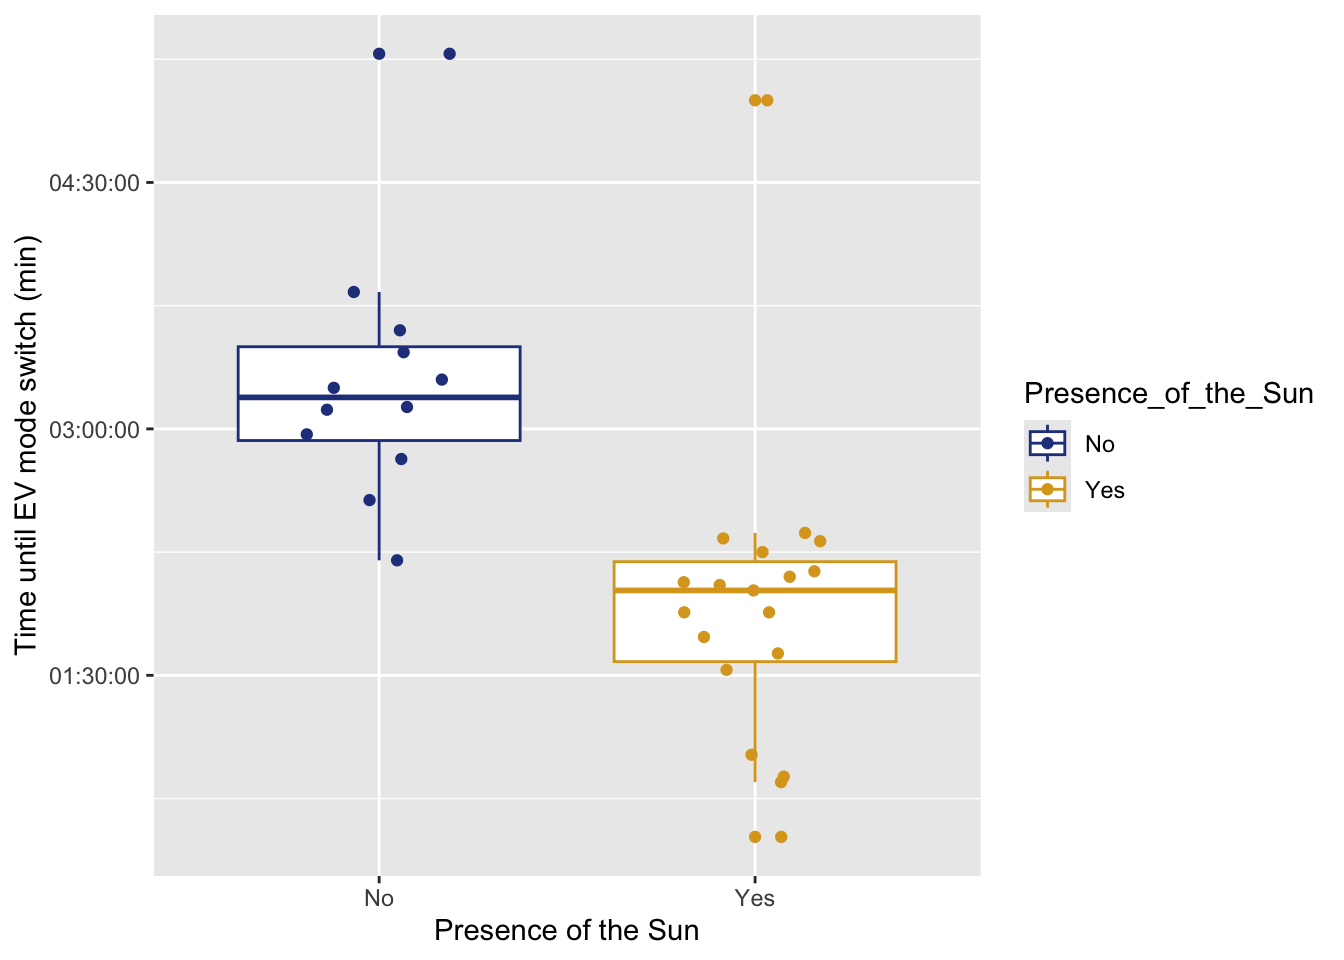
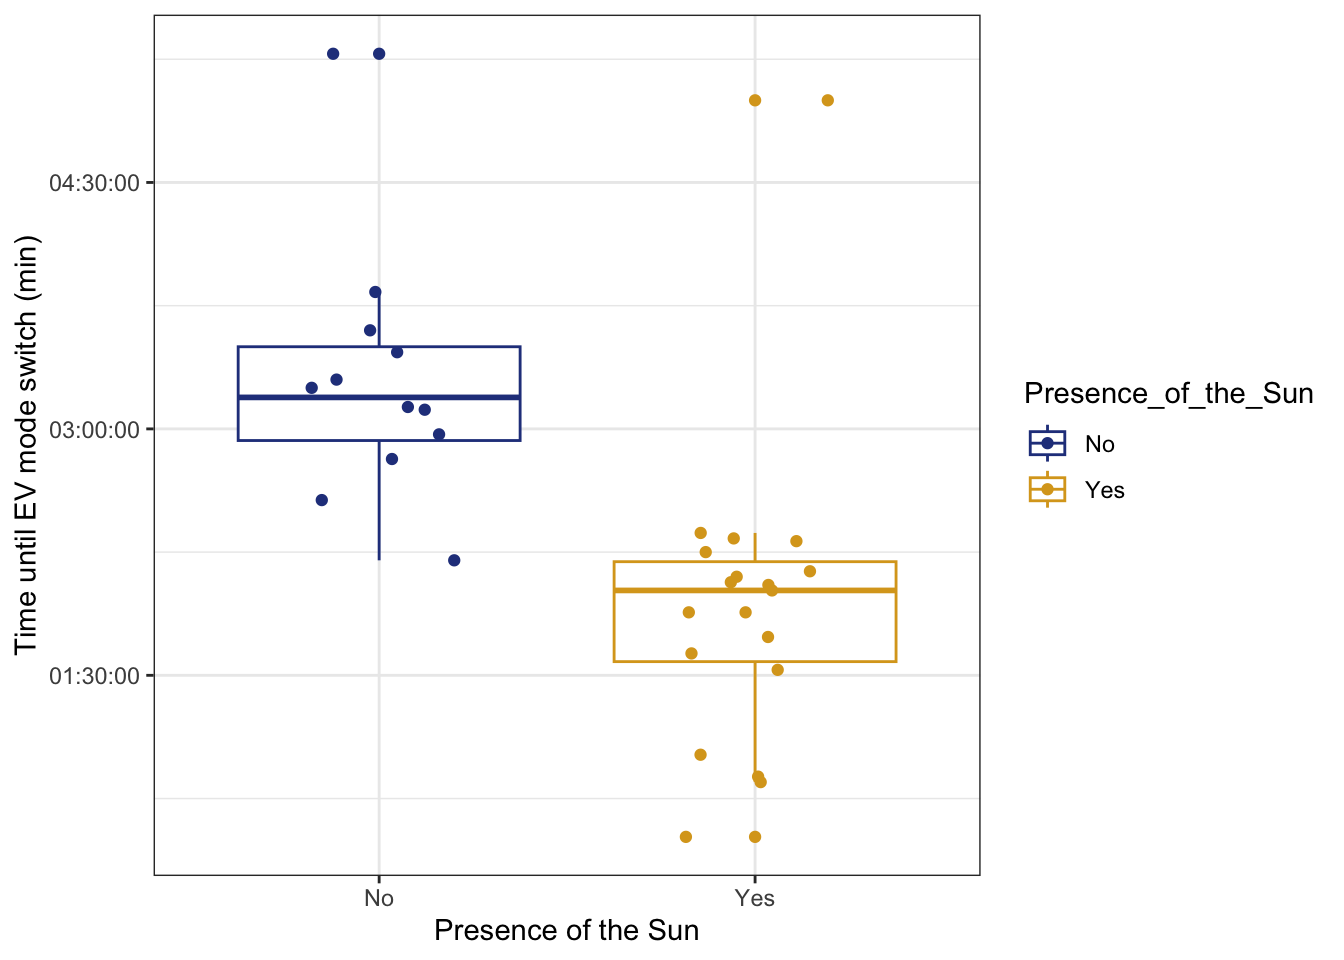
Load in more packages, finish initial drafts of visualizations.

diff --git a/ENVS-193DS_advanced-data-vis.html b/ENVS-193DS_advanced-data-vis.html
@@ -127,14 +127,18 @@ pre > code.sourceCode > span > a:first-child::before { text-decoration: underlin
 <h1>1. Set up</h1>
 <div class="cell">
 <div class="sourceCode cell-code" id="cb1"><pre class="sourceCode r code-with-copy"><code class="sourceCode r"><span id="cb1-1"><a href="#cb1-1" aria-hidden="true" tabindex="-1"></a><span class="co"># insert code to read in packages here</span></span>
-<span id="cb1-2"><a href="#cb1-2" aria-hidden="true" tabindex="-1"></a><span class="fu">library</span>(tidyverse)</span>
-<span id="cb1-3"><a href="#cb1-3" aria-hidden="true" tabindex="-1"></a><span class="fu">library</span>(janitor)</span>
-<span id="cb1-4"><a href="#cb1-4" aria-hidden="true" tabindex="-1"></a><span class="fu">library</span>(here)</span>
-<span id="cb1-5"><a href="#cb1-5" aria-hidden="true" tabindex="-1"></a><span class="fu">library</span>(flextable)</span>
-<span id="cb1-6"><a href="#cb1-6" aria-hidden="true" tabindex="-1"></a><span class="fu">library</span>(ggpattern)</span>
-<span id="cb1-7"><a href="#cb1-7" aria-hidden="true" tabindex="-1"></a></span>
-<span id="cb1-8"><a href="#cb1-8" aria-hidden="true" tabindex="-1"></a><span class="co"># insert code to read in your data here</span></span>
-<span id="cb1-9"><a href="#cb1-9" aria-hidden="true" tabindex="-1"></a>ev_data <span class="ot">&lt;-</span> <span class="fu">read_csv</span>(<span class="st">"/Users/admin/Documents/github/ENVS-193DS_homework-03/data/EV_Mode_2.csv"</span>)</span></code><button title="Copy to Clipboard" class="code-copy-button"><i class="bi"></i></button></pre></div>
+<span id="cb1-2"><a href="#cb1-2" aria-hidden="true" tabindex="-1"></a><span class="fu">library</span>(ggplot2)</span>
+<span id="cb1-3"><a href="#cb1-3" aria-hidden="true" tabindex="-1"></a><span class="fu">library</span>(hrbrthemes)</span>
+<span id="cb1-4"><a href="#cb1-4" aria-hidden="true" tabindex="-1"></a><span class="fu">library</span>(dplyr)</span>
+<span id="cb1-5"><a href="#cb1-5" aria-hidden="true" tabindex="-1"></a><span class="fu">library</span>(tidyr)</span>
+<span id="cb1-6"><a href="#cb1-6" aria-hidden="true" tabindex="-1"></a><span class="fu">library</span>(viridis)</span>
+<span id="cb1-7"><a href="#cb1-7" aria-hidden="true" tabindex="-1"></a><span class="fu">library</span>(tidyverse)</span>
+<span id="cb1-8"><a href="#cb1-8" aria-hidden="true" tabindex="-1"></a><span class="fu">library</span>(janitor)</span>
+<span id="cb1-9"><a href="#cb1-9" aria-hidden="true" tabindex="-1"></a><span class="fu">library</span>(here)</span>
+<span id="cb1-10"><a href="#cb1-10" aria-hidden="true" tabindex="-1"></a><span class="fu">library</span>(ggpattern)</span>
+<span id="cb1-11"><a href="#cb1-11" aria-hidden="true" tabindex="-1"></a></span>
+<span id="cb1-12"><a href="#cb1-12" aria-hidden="true" tabindex="-1"></a><span class="co"># insert code to read in your data here</span></span>
+<span id="cb1-13"><a href="#cb1-13" aria-hidden="true" tabindex="-1"></a>ev_data <span class="ot">&lt;-</span> <span class="fu">read_csv</span>(<span class="st">"/Users/admin/Documents/github/ENVS-193DS_homework-03/data/EV_Mode_2.csv"</span>)</span></code><button title="Copy to Clipboard" class="code-copy-button"><i class="bi"></i></button></pre></div>
 </div>
 <section id="visualization-1-boxplot-with-jitter" class="level2">
 <h2 class="anchored" data-anchor-id="visualization-1-boxplot-with-jitter">Visualization 1: Boxplot with jitter</h2>
@@ -146,10 +150,11 @@ pre > code.sourceCode > span > a:first-child::before { text-decoration: underlin
 <span id="cb2-5"><a href="#cb2-5" aria-hidden="true" tabindex="-1"></a>    <span class="fu">geom_boxplot</span>()<span class="sc">+</span> <span class="co"># first layer is the boxplot</span></span>
 <span id="cb2-6"><a href="#cb2-6" aria-hidden="true" tabindex="-1"></a>    <span class="fu">geom_jitter</span>(<span class="at">width =</span> <span class="fl">0.2</span>, <span class="co"># jitter in the x-axis</span></span>
 <span id="cb2-7"><a href="#cb2-7" aria-hidden="true" tabindex="-1"></a>                <span class="at">height =</span> <span class="dv">0</span>)<span class="sc">+</span> <span class="co"># no jitter in the y-axis</span></span>
-<span id="cb2-8"><a href="#cb2-8" aria-hidden="true" tabindex="-1"></a>    <span class="fu">labs</span>(<span class="at">x =</span> <span class="st">"Presence of the Sun"</span>, <span class="co"># relabeling the x-axis</span></span>
-<span id="cb2-9"><a href="#cb2-9" aria-hidden="true" tabindex="-1"></a>         <span class="at">y =</span> <span class="st">"Time until EV mode switch (min)"</span>)<span class="sc">+</span> <span class="co">#relabeling the y-axis</span></span>
-<span id="cb2-10"><a href="#cb2-10" aria-hidden="true" tabindex="-1"></a>       <span class="fu">scale_color_manual</span>(<span class="at">values =</span> <span class="fu">c</span>(<span class="st">"Yes"</span> <span class="ot">=</span> <span class="st">"goldenrod"</span>, <span class="co"># change the default color</span></span>
-<span id="cb2-11"><a href="#cb2-11" aria-hidden="true" tabindex="-1"></a>                                    <span class="st">"No"</span> <span class="ot">=</span> <span class="st">"royalblue4"</span>)) </span></code><button title="Copy to Clipboard" class="code-copy-button"><i class="bi"></i></button></pre></div>
+<span id="cb2-8"><a href="#cb2-8" aria-hidden="true" tabindex="-1"></a>  <span class="fu">theme_bw</span>()<span class="sc">+</span> <span class="co"># change the theme</span></span>
+<span id="cb2-9"><a href="#cb2-9" aria-hidden="true" tabindex="-1"></a>    <span class="fu">labs</span>(<span class="at">x =</span> <span class="st">"Presence of the Sun"</span>, <span class="co"># relabeling the x-axis</span></span>
+<span id="cb2-10"><a href="#cb2-10" aria-hidden="true" tabindex="-1"></a>         <span class="at">y =</span> <span class="st">"Time until EV mode switch (min)"</span>)<span class="sc">+</span> <span class="co">#relabeling the y-axis</span></span>
+<span id="cb2-11"><a href="#cb2-11" aria-hidden="true" tabindex="-1"></a>       <span class="fu">scale_color_manual</span>(<span class="at">values =</span> <span class="fu">c</span>(<span class="st">"Yes"</span> <span class="ot">=</span> <span class="st">"goldenrod"</span>, <span class="co"># change the default color</span></span>
+<span id="cb2-12"><a href="#cb2-12" aria-hidden="true" tabindex="-1"></a>                                    <span class="st">"No"</span> <span class="ot">=</span> <span class="st">"royalblue4"</span>)) </span></code><button title="Copy to Clipboard" class="code-copy-button"><i class="bi"></i></button></pre></div>
 <div class="cell-output-display">
 <div>
 <figure class="figure">
@@ -161,9 +166,53 @@ pre > code.sourceCode > span > a:first-child::before { text-decoration: underlin
 </section>
 <section id="visualization-2" class="level2">
 <h2 class="anchored" data-anchor-id="visualization-2">Visualization 2</h2>
+<div class="cell">
+<div class="sourceCode cell-code" id="cb3"><pre class="sourceCode r code-with-copy"><code class="sourceCode r"><span id="cb3-1"><a href="#cb3-1" aria-hidden="true" tabindex="-1"></a><span class="fu">ggplot</span>(<span class="at">data =</span> ev_data, <span class="co"># use the ev_data data frame</span></span>
+<span id="cb3-2"><a href="#cb3-2" aria-hidden="true" tabindex="-1"></a>       <span class="fu">aes</span>(<span class="at">x =</span> EV_switch_time, <span class="co"># time until ev switch on the x-axis</span></span>
+<span id="cb3-3"><a href="#cb3-3" aria-hidden="true" tabindex="-1"></a>           <span class="at">group =</span> Presence_of_the_Sun, <span class="co"># group by presence of the sun</span></span>
+<span id="cb3-4"><a href="#cb3-4" aria-hidden="true" tabindex="-1"></a>           <span class="at">fill =</span> Presence_of_the_Sun))<span class="sc">+</span> <span class="co"># fill color by presence of the sun</span></span>
+<span id="cb3-5"><a href="#cb3-5" aria-hidden="true" tabindex="-1"></a>   <span class="fu">geom_density</span>(<span class="at">adjust=</span><span class="fl">1.5</span>) <span class="sc">+</span></span>
+<span id="cb3-6"><a href="#cb3-6" aria-hidden="true" tabindex="-1"></a>    <span class="fu">theme_ipsum</span>() <span class="sc">+</span> <span class="co"># change theme </span></span>
+<span id="cb3-7"><a href="#cb3-7" aria-hidden="true" tabindex="-1"></a>    <span class="fu">facet_wrap</span>(<span class="sc">~</span>Presence_of_the_Sun) <span class="sc">+</span> <span class="co"># show 2 density plots based on grouping</span></span>
+<span id="cb3-8"><a href="#cb3-8" aria-hidden="true" tabindex="-1"></a>    <span class="fu">theme</span>(</span>
+<span id="cb3-9"><a href="#cb3-9" aria-hidden="true" tabindex="-1"></a>      <span class="at">legend.position=</span><span class="st">"none"</span>,</span>
+<span id="cb3-10"><a href="#cb3-10" aria-hidden="true" tabindex="-1"></a>      <span class="at">panel.spacing =</span> <span class="fu">unit</span>(<span class="fl">0.1</span>, <span class="st">"lines"</span>),</span>
+<span id="cb3-11"><a href="#cb3-11" aria-hidden="true" tabindex="-1"></a>      <span class="at">axis.ticks.x=</span><span class="fu">element_blank</span>()</span>
+<span id="cb3-12"><a href="#cb3-12" aria-hidden="true" tabindex="-1"></a>    )<span class="sc">+</span></span>
+<span id="cb3-13"><a href="#cb3-13" aria-hidden="true" tabindex="-1"></a>  <span class="fu">scale_fill_manual</span>(<span class="at">values =</span> <span class="fu">c</span>(<span class="st">"Yes"</span> <span class="ot">=</span> <span class="st">"goldenrod"</span>, <span class="st">"No"</span> <span class="ot">=</span> <span class="st">"royalblue4"</span>))<span class="co"># change the default color</span></span></code><button title="Copy to Clipboard" class="code-copy-button"><i class="bi"></i></button></pre></div>
+<div class="cell-output-display">
+<div>
+<figure class="figure">
+<p><img src="ENVS-193DS_advanced-data-vis_files/figure-html/unnamed-chunk-3-1.png" class="img-fluid figure-img" width="672"></p>
+</figure>
+</div>
+</div>
+</div>
 </section>
 <section id="visualization-3" class="level2">
 <h2 class="anchored" data-anchor-id="visualization-3">Visualization 3</h2>
+<div class="cell">
+<div class="sourceCode cell-code" id="cb4"><pre class="sourceCode r code-with-copy"><code class="sourceCode r"><span id="cb4-1"><a href="#cb4-1" aria-hidden="true" tabindex="-1"></a><span class="fu">ggplot</span>(<span class="at">data =</span> ev_data,<span class="co"># use the ev_data data frame </span></span>
+<span id="cb4-2"><a href="#cb4-2" aria-hidden="true" tabindex="-1"></a>       <span class="fu">aes</span>(<span class="at">x =</span> Time_passed_since_shutoff,<span class="co"># temperature on the x-axis</span></span>
+<span id="cb4-3"><a href="#cb4-3" aria-hidden="true" tabindex="-1"></a>           <span class="at">y =</span> EV_switch_time,</span>
+<span id="cb4-4"><a href="#cb4-4" aria-hidden="true" tabindex="-1"></a>           <span class="at">color =</span> Presence_of_the_Sun)) <span class="sc">+</span><span class="co">#time until ev switch on the y-axis</span></span>
+<span id="cb4-5"><a href="#cb4-5" aria-hidden="true" tabindex="-1"></a>    <span class="fu">geom_point</span>() <span class="sc">+</span> <span class="co">#adding points</span></span>
+<span id="cb4-6"><a href="#cb4-6" aria-hidden="true" tabindex="-1"></a>    <span class="fu">geom_line</span>() <span class="sc">+</span><span class="co">#adding lines</span></span>
+<span id="cb4-7"><a href="#cb4-7" aria-hidden="true" tabindex="-1"></a>  <span class="fu">theme_bw</span>()<span class="sc">+</span> <span class="co"># change the theme</span></span>
+<span id="cb4-8"><a href="#cb4-8" aria-hidden="true" tabindex="-1"></a>    <span class="fu">labs</span>(<span class="at">x =</span> <span class="st">"Time since engine was last shutoff (hr:min)"</span>,<span class="co"># relabeling x-axis</span></span>
+<span id="cb4-9"><a href="#cb4-9" aria-hidden="true" tabindex="-1"></a>         <span class="at">y =</span> <span class="st">"Time until EV mode switch (min:sec)"</span>)<span class="sc">+</span> <span class="co">#relabeling y-axis</span></span>
+<span id="cb4-10"><a href="#cb4-10" aria-hidden="true" tabindex="-1"></a>    <span class="fu">theme</span>(<span class="at">panel.grid.major =</span> <span class="fu">element_blank</span>(), <span class="co"># remove gridlines </span></span>
+<span id="cb4-11"><a href="#cb4-11" aria-hidden="true" tabindex="-1"></a>         <span class="at">panel.grid.minor =</span> <span class="fu">element_blank</span>())<span class="sc">+</span> </span>
+<span id="cb4-12"><a href="#cb4-12" aria-hidden="true" tabindex="-1"></a>  <span class="fu">scale_color_manual</span>(<span class="at">values =</span> <span class="fu">c</span>(<span class="st">"Yes"</span> <span class="ot">=</span> <span class="st">"goldenrod"</span>, <span class="co"># change the default color</span></span>
+<span id="cb4-13"><a href="#cb4-13" aria-hidden="true" tabindex="-1"></a>                                    <span class="st">"No"</span> <span class="ot">=</span> <span class="st">"royalblue4"</span>))</span></code><button title="Copy to Clipboard" class="code-copy-button"><i class="bi"></i></button></pre></div>
+<div class="cell-output-display">
+<div>
+<figure class="figure">
+<p><img src="ENVS-193DS_advanced-data-vis_files/figure-html/unnamed-chunk-4-1.png" class="img-fluid figure-img" width="672"></p>
+</figure>
+</div>
+</div>
+</div>
 </section>
 </section>
 
